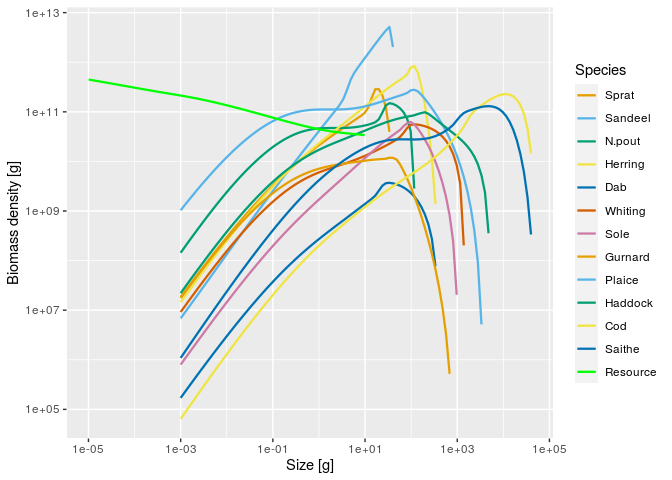
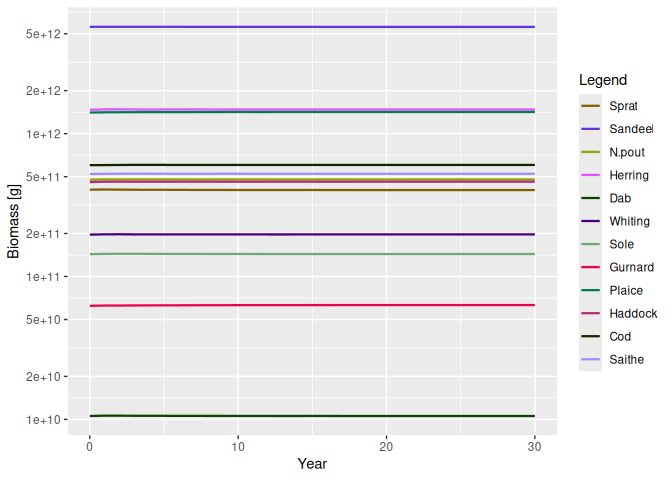
Ready for mizer 3.0

diff --git a/README.md b/README.md
@@ -14,8 +14,7 @@ This is an extension package for the mizer package
 
 <!--
 You can install the released version of mizerStarvation from [CRAN](https://CRAN.R-project.org) with: 
-
-``` r 
+&#10;``` r 
 install.packages("mizerStarvation") 
 ```
 -->
@@ -37,10 +36,12 @@ library(mizerStarvation)
 library(tidyverse)
 library(ggplot2)
 params <- NS_params
-plotSpectra(params, power = 2)
+
+sim <- project(params, t_max = 30)
+plotBiomass(sim)
 ```
 
-<img src="man/figures/README-unnamed-chunk-2-1.png" width="100%" />
+<img src="man/figures/README-unnamed-chunk-2-1.png" alt="" width="100%" />
 
 We add starvation mortality
 
@@ -51,10 +52,8 @@ params <- setStarvation(NS_params, 10)
 We decrease resource availability to create some starvation
 
 ``` r
-capacity <- getResourceCapacity(params)
-capacity[w_full(params) > 0.1] <- 0
-params <- setResource(params, resource_capacity = capacity)
 initialNResource(params)[w_full(params) > 0.1] <- 0
+resource_capacity(params) <- initialNResource(params) * 1.0001
 ```
 
 We can calculate the starvation mortality for each species as a function
@@ -62,22 +61,10 @@ of size with `getStarvMort()`:
 
 ``` r
 starv_mort <- getStarvMort(params)
+plot(starv_mort)
 ```
 
-This returns a matrix. For plotting we turn this into a data frame with
-`melt()` and send it to ggplot:
-
-``` r
-ggplot(melt(starv_mort)) +
-    geom_line(aes(x = w, y = value, colour = sp, linetype = sp), size = 1) +
-    scale_x_log10() +
-    xlab("Size [g]") +
-    ylab("Starvation mortality [1/year]") +
-    scale_colour_manual(values = params@linecolour) +
-    scale_linetype_manual(values = params@linetype)
-```
-
-<img src="man/figures/README-unnamed-chunk-6-1.png" width="100%" />
+<img src="man/figures/README-unnamed-chunk-5-1.png" alt="" width="100%" />
 
 Of course now Saithe will go extinct, not only because of the starvation
 mortality but also because it stops growing before maturity.
@@ -87,4 +74,4 @@ sim <- project(params, t_max = 30)
 plotBiomass(sim)
 ```
 
-<img src="man/figures/README-unnamed-chunk-7-1.png" width="100%" />
+<img src="man/figures/README-unnamed-chunk-6-1.png" alt="" width="100%" />
